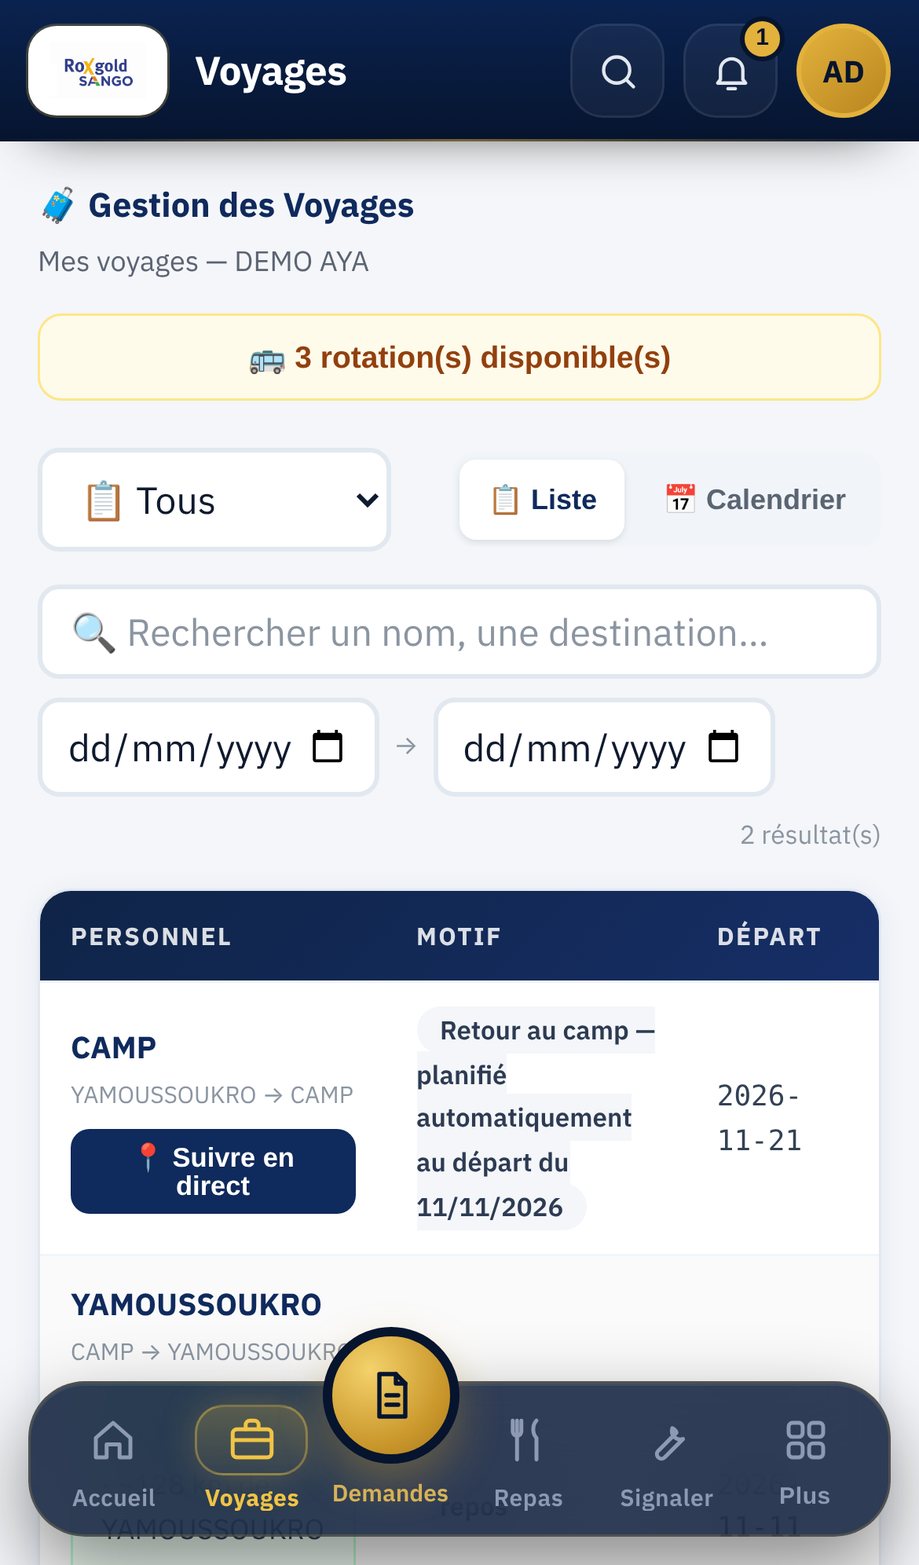
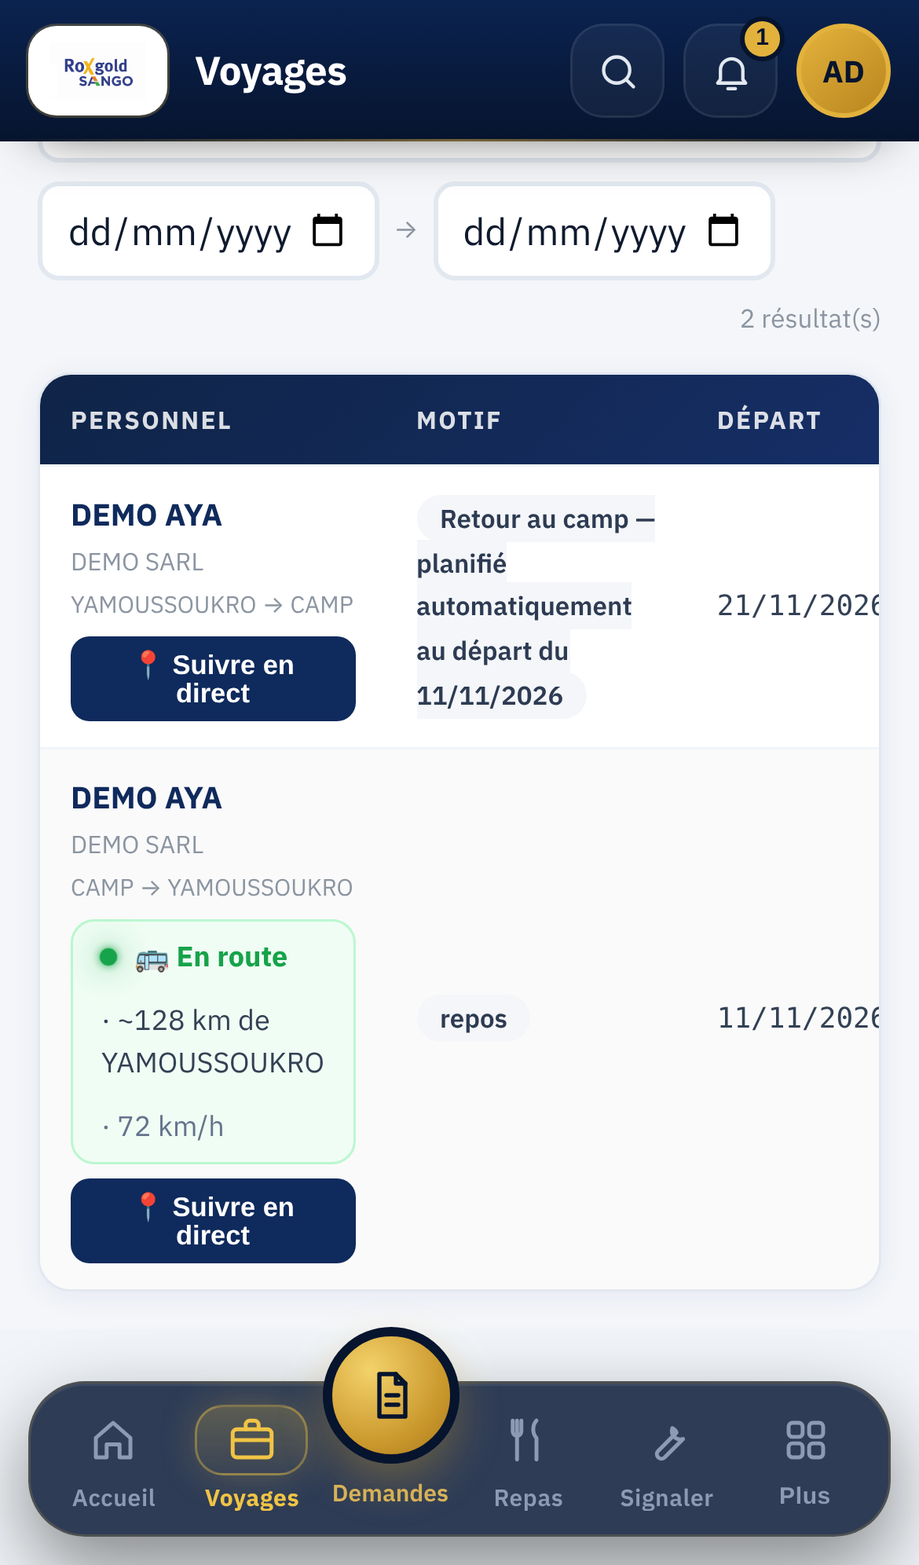
Page Voyages : nom du passager et dates lisibles ; captures T04 finales
- Voyages.jsx lisait `personnel_detail`, que l'API voyages ne renvoie pas
  (elle renvoie `personnel_nom` / `personnel_societe`) : la colonne
  « Personnel » affichait la destination au lieu du nom, pour tous les
  profils, et la recherche par nom, le filtre société, le calendrier et
  les confirmations étaient vides. Passage par `nomPersonnel(v)`.
- Colonnes Départ et Retour prévu : `21/11/2026` au lieu de `2026-11-21`.
- Piège ajouté dans CLAUDE.md.
- Tutoriel T04 : captures réelles finales (positions fraîches), la page
  Voyages met en avant le trajet en cours ; espaces insécables du français
  dans le générateur (plus de « ? » seul en début de ligne).

Claude-Session: https://claude.ai/code/session_01JXsitDuHqmbLLRJQTobeDs

diff --git a/frontend/src/pages/Voyages.jsx b/frontend/src/pages/Voyages.jsx
@@ -21,6 +21,10 @@ const STATUT_STYLES = {
 }
 const STATUT_LABELS = { planifie:'Planifié', en_voyage:'En voyage', retour:'Retour camp', annule:'Annulé' }
 const fmtFR = (iso) => iso ? new Date(iso+'T00:00:00').toLocaleDateString('fr-FR',{day:'numeric',month:'short'}) : '—'
+// Date complète « 21/11/2026 » pour le tableau (l'API renvoie AAAA-MM-JJ).
+const fmtJour = (iso) => iso ? new Date(iso+'T00:00:00').toLocaleDateString('fr-FR',{day:'2-digit',month:'2-digit',year:'numeric'}) : '—'
+// L'API voyages renvoie personnel_nom / personnel_societe (pas d'objet personnel_detail).
+const nomPersonnel = (v) => v?.personnel_nom || ''
 
 function exportVoyagesCSV(liste) {
   const headers = ['ID','Personnel','Société','Destination','Motif','Départ prévu','Départ réel','Retour prévu','Retour réel','Statut']
@@ -94,15 +98,15 @@ function VueCalendrier({ voyages: data, mois, setMois, onSelectVoyage }) {
             <div key={i} style={{minHeight:64,border:`1px solid ${isToday?'#C9972B':'#f1f5f9'}`,borderRadius:8,padding:4,fontSize:10,background:isToday?'#fffbeb':'#fff'}}>
               <div style={{fontWeight:700,color:isToday?'#C9972B':'var(--rzc-text-3)',marginBottom:2}}>{j}</div>
               {info?.departs.slice(0,2).map(v=>(
-                <div key={'d'+v.id} onClick={()=>onSelectVoyage(v)} title={`Départ — ${v.personnel_detail?.nom||''}`}
+                <div key={'d'+v.id} onClick={()=>onSelectVoyage(v)} title={`Départ — ${nomPersonnel(v)}`}
                   style={{background:'#fff7ed',color:'#c2410c',borderRadius:4,padding:'1px 4px',marginBottom:2,cursor:'pointer',whiteSpace:'nowrap',overflow:'hidden',textOverflow:'ellipsis'}}>
-                  🧳 {v.personnel_detail?.nom||v.destination}
+                  🧳 {nomPersonnel(v)||v.destination}
                 </div>
               ))}
               {info?.retours.slice(0,2).map(v=>(
-                <div key={'r'+v.id} onClick={()=>onSelectVoyage(v)} title={`Retour — ${v.personnel_detail?.nom||''}`}
+                <div key={'r'+v.id} onClick={()=>onSelectVoyage(v)} title={`Retour — ${nomPersonnel(v)}`}
                   style={{background:'#f0fdf4',color:'#15803d',borderRadius:4,padding:'1px 4px',marginBottom:2,cursor:'pointer',whiteSpace:'nowrap',overflow:'hidden',textOverflow:'ellipsis'}}>
-                  🏠 {v.personnel_detail?.nom||v.destination}
+                  🏠 {nomPersonnel(v)||v.destination}
                 </div>
               ))}
             </div>
@@ -248,12 +252,12 @@ export default function Voyages() {
     catch(e) { toast.error(e.response?.data?.error||'Erreur') }
   }
   const annulerVoyage = async (v) => {
-    if (!await confirmDialog(`Annuler le voyage de ${v.personnel_detail?.nom||''} ?`)) return
+    if (!await confirmDialog(`Annuler le voyage de ${nomPersonnel(v)} ?`)) return
     try { await voyages.annuler(v.id); loadVoyages() }
     catch(e) { toast.error(e.response?.data?.error||'Erreur') }
   }
   const supprimerVoyage = async (v) => {
-    if (!await confirmDialog(`🗑 Supprimer définitivement le voyage de ${v.personnel_detail?.nom||'?'} vers ${v.destination||'?'} ?\n\nCette action est irréversible.`)) return
+    if (!await confirmDialog(`🗑 Supprimer définitivement le voyage de ${nomPersonnel(v)||'?'} vers ${v.destination||'?'} ?\n\nCette action est irréversible.`)) return
     try { await voyages.supprimer(v.id); loadVoyages() }
     catch(e) { toast.error(e.response?.data?.error || 'Impossible de supprimer ce voyage') }
   }
@@ -362,19 +366,19 @@ export default function Voyages() {
 
   const filtered = data.filter(v => {
     if (filterStatut && v.statut !== filterStatut) return false
-    if (filterSociete && v.personnel_detail?.societe !== filterSociete) return false
+    if (filterSociete && v.personnel_societe !== filterSociete) return false
     if (dateDebut && v.date_depart < dateDebut) return false
     if (dateFin && v.date_depart > dateFin) return false
     if (search) {
       const s = search.toLowerCase()
-      const nom = `${v.personnel_detail?.nom||''} ${v.personnel_detail?.prenom||''}`.toLowerCase()
+      const nom = nomPersonnel(v).toLowerCase()
       const dest = (v.destination||'').toLowerCase()
       const orig = (v.origine||'').toLowerCase()
       if (!nom.includes(s) && !dest.includes(s) && !orig.includes(s)) return false
     }
     return true
   })
-  const societesDisponibles = [...new Set(data.map(v=>v.personnel_detail?.societe).filter(Boolean))].sort()
+  const societesDisponibles = [...new Set(data.map(v=>v.personnel_societe).filter(Boolean))].sort()
   const filtresActifs = !!(filterSociete || dateDebut || dateFin || search)
 
   // Styles
@@ -601,7 +605,7 @@ export default function Voyages() {
               <tbody>
                 {filtered.map((v, i) => {
                   const sc = STATUT_STYLES[v.statut] || STATUT_STYLES.planifie
-                  const p  = v.personnel_detail
+                  const nom = nomPersonnel(v)
                   const autresDuConvoi = v.rotation_id ? filtered.filter(x => x.rotation_id === v.rotation_id && x.id !== v.id) : []
                   const trajetDiffere = autresDuConvoi.some(x => x.destination && v.destination && x.destination !== v.destination)
                   return (
@@ -610,7 +614,7 @@ export default function Voyages() {
                       onMouseLeave={e => e.currentTarget.style.background = i%2?'#fafafa':'var(--rzc-white)'}>
                       <td style={{ padding:'11px 13px' }}>
                         <div style={{ fontWeight:700, color:'var(--rzc-navy)', fontSize:13, display:'flex', alignItems:'center', gap:6 }}>
-                          {p ? `${p.nom} ${p.prenom}` : v.destination || '—'}
+                          {nom || v.destination || '—'}
                           {trajetDiffere && (
                             <span title="Ce trajet diffère des autres passagers du même convoi"
                               style={{fontSize:9,fontWeight:700,color:'#7c3aed',background:'rgba(124,58,237,.12)',
@@ -619,7 +623,7 @@ export default function Voyages() {
                             </span>
                           )}
                         </div>
-                        {p?.societe && <div style={{ fontSize:10.5, color:'var(--rzc-text-4)', marginTop:1 }}>{p.societe}</div>}
+                        {v.personnel_societe && <div style={{ fontSize:10.5, color:'var(--rzc-text-4)', marginTop:1 }}>{v.personnel_societe}</div>}
                         <div style={{ fontSize:10, color:'var(--rzc-text-4)', marginTop:2 }}>
                           {(v.origine||'Camp')} → {v.destination||'—'}
                         </div>
@@ -635,9 +639,9 @@ export default function Voyages() {
                           {v.motif || 'repos'}
                         </span>
                       </td>
-                      <td style={{ padding:'11px 13px', fontFamily:'monospace', fontSize:12, color:'#334155' }}>{v.date_depart}</td>
+                      <td style={{ padding:'11px 13px', fontFamily:'monospace', fontSize:12, color:'#334155', whiteSpace:'nowrap' }}>{fmtJour(v.date_depart)}</td>
                       <td style={{ padding:'11px 13px', fontFamily:'monospace', fontSize:12, color:'#7c3aed' }}>{v.heure_depart || '—'}</td>
-                      <td style={{ padding:'11px 13px', fontFamily:'monospace', fontSize:12 }}>{v.date_retour_prevue}</td>
+                      <td style={{ padding:'11px 13px', fontFamily:'monospace', fontSize:12, whiteSpace:'nowrap' }}>{fmtJour(v.date_retour_prevue)}</td>
                       <td style={{ padding:'11px 13px' }}>
                         <span style={{ background:sc.bg, color:sc.color, padding:'4px 12px', borderRadius:20, fontSize:11, fontWeight:700, whiteSpace:'nowrap' }}>
                           {sc.label}
@@ -1012,7 +1016,7 @@ export default function Voyages() {
             </div>
             <div style={{ padding:20,display:'flex',flexDirection:'column',gap:12 }}>
               <p style={{fontSize:13,color:'var(--rzc-text-2)',margin:0}}>
-                Voyage de <b>{refusModal.personnel_detail?.nom} {refusModal.personnel_detail?.prenom}</b> vers {refusModal.destination}.
+                Voyage de <b>{nomPersonnel(refusModal)}</b> vers {refusModal.destination}.
               </p>
               <textarea value={motifRefus} onChange={e=>setMotifRefus(e.target.value)}
                 placeholder="Motif du refus (optionnel)…" rows={3} style={{...inp,resize:'vertical'}}/>

diff --git a/docs/ROXGOLD_SITELIFE_TUTORIALS/06_PROJETS_HYPERFRAMES/T04_suivre_bus/capture_t04.js b/docs/ROXGOLD_SITELIFE_TUTORIALS/06_PROJETS_HYPERFRAMES/T04_suivre_bus/capture_t04.js
@@ -26,6 +26,13 @@ const OUT = path.join(__dirname, 'captures') + '/';
   const bus = pg.getByText('Le bus est entre').first();
   if (await bus.count()) { await bus.scrollIntoViewIfNeeded(); await shot('04_suivi_bus_entre.png', 800); }
   await pg.locator('button[aria-label="Fermer"]').first().click();
-  await pg.goto('http://127.0.0.1:5173/voyages'); await pg.waitForLoadState('networkidle'); await shot('05_voyages.png', 2500);
+  await pg.goto('http://127.0.0.1:5173/voyages'); await pg.waitForLoadState('networkidle'); await pg.waitForTimeout(2500);
+  // La liste est triée du plus récent au plus ancien : le retour planifié (convoi à venir) passe en premier.
+  // On amène à l'écran la ligne du trajet EN COURS (Camp → Yamoussoukro), celle que l'on suit.
+  const ligne = pg.locator('tr', { hasText: /CAMP\s*→\s*YAMOUSSOUKRO/ }).first();
+  await ligne.evaluate(el => el.scrollIntoView({ block: 'center' }));
+  const bt = await ligne.getByText('Suivre en direct').boundingBox();
+  console.log('bouton 05 (px x3)', Math.round(bt.x*3), Math.round(bt.y*3), Math.round(bt.width*3), Math.round(bt.height*3));
+  await shot('05_voyages.png', 1200);
   await b.close();
 })();

diff --git a/docs/ROXGOLD_SITELIFE_TUTORIALS/06_PROJETS_HYPERFRAMES/_commun/generateur_tutoriel.py b/docs/ROXGOLD_SITELIFE_TUTORIALS/06_PROJETS_HYPERFRAMES/_commun/generateur_tutoriel.py
@@ -106,7 +106,69 @@ html,body{width:1920px;height:1080px;overflow:hidden;background:var(--nuit);colo
 """.replace("%(SW)s", str(SCR_W)).replace("%(SH)s", str(SCR_H)).replace("%(IW)s", str(W_IMG)).replace("%(IH)s", str(H_IMG))
 
 
-def construire(cfg, images, fonts, gsap_tag):
+def duree_audio(path):
+    import subprocess
+    r = subprocess.run(["ffprobe", "-v", "error", "-show_entries", "format=duration", "-of", "csv=p=0", path],
+                       capture_output=True, text=True, check=True)
+    return float(r.stdout.strip())
+
+
+DEBUT_VOIX = 0.3     # la voix démarre 0,3 s après l'image qu'elle décrit
+MARGE_FIN = 0.7      # respiration après la dernière phrase du plan
+
+
+def adapter_a_la_voix(cfg, voix_dir):
+    """Si les voix FLORA existent (voix_dir/<CODE>_<PLAN>.mp3), allonge chaque plan pour contenir sa voix,
+    remet les temps internes du plan (encadrés, appuis, étiquettes) à l'échelle, et recale les sous-titres du
+    plan sur la durée réelle de la voix, au prorata du nombre de caractères. Renvoie (cfg, audios)."""
+    import copy, re
+    fichiers = {pid: os.path.join(voix_dir, f'{cfg["code"]}_{pid.upper()}.mp3') for pid, _ in cfg["plans"]}
+    if not os.path.isdir(voix_dir) or not all(os.path.exists(f) for f in fichiers.values()):
+        return cfg, []
+    cfg = copy.deepcopy(cfg)
+    anciens, t = {}, 0
+    for pid, d in cfg["plans"]:
+        anciens[pid] = (t, d); t += d
+    voix = {pid: duree_audio(f) for pid, f in fichiers.items()}
+    nouveaux = [(pid, round(max(d, DEBUT_VOIX + voix[pid] + MARGE_FIN), 2)) for pid, d in cfg["plans"]]
+    facteur = {pid: nd / anciens[pid][1] for pid, nd in nouveaux}
+    cfg["plans"] = nouveaux
+    k = lambda pid, t: round(t * facteur[pid], 2)
+    for pid, v in cfg["telephone"].items():
+        img, etape, kick, tit, sous, zones = v
+        cfg["telephone"][pid] = (img, etape, kick, tit, sous, [(x, y, w, h, k(pid, tt), z) for (x, y, w, h, tt, z) in zones])
+    for pid, l in cfg.get("recentrages", {}).items():
+        cfg["recentrages"][pid] = [(x, y, w, h, k(pid, tt), z) for (x, y, w, h, tt, z) in l]
+    for pid, (x, y, tt) in cfg.get("taps", {}).items():
+        cfg["taps"][pid] = (x, y, k(pid, tt))
+    pc = cfg["constat"]["plan"]
+    cfg["constat"]["maux"] = [(txt, k(pc, tt)) for txt, tt in cfg["constat"]["maux"]]
+    # sous-titres : chaque sous-titre appartient au plan où il commençait ; répartition au prorata des caractères
+    debuts, t = {}, 0
+    for pid, d in nouveaux:
+        debuts[pid] = t; t += d
+    groupes = {pid: [] for pid, _ in nouveaux}
+    for (a0, b0, txt) in cfg["sous_titres"]:
+        pid = next(p for p, (s0, d0) in anciens.items() if s0 <= a0 < s0 + d0)
+        groupes[pid].append(txt)
+    st = []
+    for pid, _ in nouveaux:
+        txts = groupes[pid]
+        if not txts:
+            continue
+        n = [len(re.sub("<[^>]+>", "", x)) for x in txts]
+        tot, cumul = sum(n), 0
+        for txt, c in zip(txts, n):
+            a0 = debuts[pid] + DEBUT_VOIX + voix[pid] * cumul / tot
+            cumul += c
+            b0 = debuts[pid] + DEBUT_VOIX + voix[pid] * cumul / tot
+            st.append((round(a0, 2), round(b0 - 0.05, 2), txt))
+    cfg["sous_titres"] = st
+    audios = [(pid, fichiers[pid], round(debuts[pid] + DEBUT_VOIX, 2), round(voix[pid], 2)) for pid, _ in nouveaux]
+    return cfg, audios
+
+
+def construire(cfg, images, fonts, gsap_tag, audios=()):
     plans, total = [], 0
     for pid, d in cfg["plans"]:
         plans.append((pid, total, d)); total += d
@@ -243,6 +305,7 @@ def construire(cfg, images, fonts, gsap_tag):
 <div class="fond clip" id="fond" data-start="0" data-duration="{total}" data-track-index="2"><svg class="courbes" id="courbes" viewBox="0 0 2040 1080" preserveAspectRatio="none"><path d="M-50 820 C 400 700, 800 900, 1300 760 S 1900 640, 2080 700"/><path d="M-50 900 C 420 800, 820 1000, 1320 860 S 1900 760, 2080 800"/><path d="M-50 240 C 380 160, 760 330, 1260 210 S 1900 120, 2080 170"/></svg></div>
 {"".join(scenes)}
 {subs}
+{"".join(f'<audio class="clip" id="voix-{pid}" src="{src}" data-start="{st0}" data-duration="{du}" data-track-index="3" data-volume="1"></audio>' for pid, src, st0, du in audios)}
 </div>
 <script>
 window.__timelines = window.__timelines || {{}};
@@ -256,9 +319,26 @@ window.__timelines["main"] = tl;
 ''', total
 
 
+def typo(v):
+    """Espaces insécables du français (avant ? ! : ; et dans « »), pour éviter
+    qu'un signe se retrouve seul en début de ligne à l'écran."""
+    if isinstance(v, str):
+        for a, b in ((" ?", "\u00a0?"), (" !", "\u00a0!"), (" :", "\u00a0:"), (" ;", "\u00a0;"), ("« ", "«\u00a0"), (" »", "\u00a0»")):
+            v = v.replace(a, b)
+        return v
+    if isinstance(v, dict):
+        return {k: typo(x) for k, x in v.items()}
+    if isinstance(v, (list, tuple)):
+        return type(v)(typo(x) for x in v)
+    return v
+
+
 def generer(cfg):
     gsap, fonts_dir = sys.argv[1], sys.argv[2]
+    cfg = {k: (v if k == "dossier" else typo(v)) for k, v in cfg.items()}
     ici = cfg["dossier"]; cap = os.path.join(ici, "captures"); out = os.path.join(ici, "hyperframes")
+    voix_dir = os.path.join(out, "assets", "voix")
+    cfg, audios = adapter_a_la_voix(cfg, voix_dir)
     os.makedirs(os.path.join(out, "assets"), exist_ok=True)
     fonts = {w: b64(os.path.join(fonts_dir, f"ibm-plex-sans-latin-{w}-normal.woff2"), "font/woff2") for w in (400, 600, 700)}
     utilisees = sorted({v[0] for v in cfg["telephone"].values()})
@@ -267,12 +347,14 @@ def generer(cfg):
     for n in utilisees:
         shutil.copy(os.path.join(cap, n), os.path.join(out, "assets", n)); imgs[n] = f"assets/{n}"
     shutil.copy(gsap, os.path.join(out, "assets", "gsap.min.js"))
-    html, total = construire(cfg, imgs, fonts, '<script src="assets/gsap.min.js"></script>')
+    loc = [(pid, f"assets/voix/{os.path.basename(f)}", st0, du) for pid, f, st0, du in audios]
+    html, total = construire(cfg, imgs, fonts, '<script src="assets/gsap.min.js"></script>', loc)
     open(os.path.join(out, "index.html"), "w").write(html)
     imgs = {"logo": b64(LOGO, "image/png"), **{n: jpeg_b64(os.path.join(cap, n)) for n in utilisees}}
     os.makedirs(os.path.join(ici, "send_to_hyperframes"), exist_ok=True)
+    inl = [(pid, b64(f, "audio/mpeg"), st0, du) for pid, f, st0, du in audios]
     html, _ = construire(cfg, imgs, fonts, '<script src="https://cdn.jsdelivr.net/npm/gsap@3.14.2/dist/gsap.min.js"></script>\n'
-                         '<script src="https://cdn.jsdelivr.net/npm/@hyperframes/core/dist/hyperframe.runtime.iife.js"></script>')
+                         '<script src="https://cdn.jsdelivr.net/npm/@hyperframes/core/dist/hyperframe.runtime.iife.js"></script>', inl)
     open(os.path.join(ici, "send_to_hyperframes", f'{cfg["code"]}_send_to_hyperframes.html'), "w").write(html)
     json.dump({"id": f'roxgold-sitelife-{cfg["code"].lower()}', "name": f'{cfg["code"]} {cfg["titre"]}'},
               open(os.path.join(out, "meta.json"), "w"), ensure_ascii=False, indent=2)
@@ -281,4 +363,4 @@ def generer(cfg):
     open(os.path.join(out, ".gitignore"), "w").write(".hyperframes/\nrenders/\n")
     srt_path = os.path.join(TUTOS, "08_SOUS_TITRES", f'{cfg["code"]}_{os.path.basename(ici).split("_", 1)[1]}.srt')
     open(srt_path, "w").write(srt(cfg["sous_titres"]))
-    print(f'ok {cfg["code"]} : {total} s, {len(cfg["plans"])} plans, {len(cfg["sous_titres"])} sous-titres -> {os.path.relpath(srt_path, TUTOS)}')
+    print(f'ok {cfg["code"]} : {total} s, {len(cfg["plans"])} plans, {len(cfg["sous_titres"])} sous-titres, {len(audios)} voix -> {os.path.relpath(srt_path, TUTOS)}')

diff --git a/docs/ROXGOLD_SITELIFE_TUTORIALS/06_PROJETS_HYPERFRAMES/T04_suivre_bus/generer_composition.py b/docs/ROXGOLD_SITELIFE_TUTORIALS/06_PROJETS_HYPERFRAMES/T04_suivre_bus/generer_composition.py
@@ -24,7 +24,7 @@ CFG = {
         "p06": ("02_suivi_carte.png", 2, "L'arrivée", "Heure d'arrivée estimée", "Temps et kilomètres restants.", [(30,1105,1110,330,0.5,None)]),
         "p07": ("03_suivi_parcours.png", 3, "Le parcours", "Arrêts passés et à venir", "Votre montée · votre descente.", [(30,1460,1110,520,0.5,None)]),
         "p08": ("04_suivi_bus_entre.png", 3, "Le parcours", "Où est le bus ?", "Actualisé toutes les 15 secondes.", [(90,1480,1000,110,0.5,None)]),
-        "p09": ("05_voyages.png", 4, "Autre accès", "Page Voyages", "« Suivre en direct » sur votre voyage.", [(80,1435,380,120,0.5,None)]),
+        "p09": ("05_voyages.png", 4, "Autre accès", "Page Voyages", "« Suivre en direct » sur le trajet en cours.", [(80,1160,385,460,0.5,None)]),
     },
     "taps": {"p04": (585, 1378, 6.4)},
     "resultat": {"plan": "p10", "titre": "Fini l'attente<br>à l'aveugle.",

diff --git a/CLAUDE.md b/CLAUDE.md
@@ -74,6 +74,7 @@ npm run dev
 - **Validation d'une demande de voyage qui quitte le camp (`DemandeViewSet.valider`) : ne jamais faire partir la personne avant le jour J.** Un départ futur reste « planifie » et la chambre reste occupée ; c'est `voyages/automatisation.py` (boucle chaque minute dans `asgi.py`) qui appelle `partir()` à la date du voyage. Avant le 11/11/2026, `partir()` était appelé dès la validation : accueil « Trajet en cours · En route » et chambre « Libre » (réattribuable) plusieurs jours trop tôt. Tests : `TrajetsAllerSimpleTests.test_validation_d_un_depart_*`.
 - **Départ résidence sans décision : une seule règle, `residences/departs.py`**, utilisée par la tâche quotidienne `verifier_departs_residence` (notifications « Départ résidence dépassé — décision requise ») ET par le tableau de bord admin (`/api/batiments/stats/`, alerte 🏠 → fenêtre « Il part / Il reste »). Les deux copies avaient divergé (une demande de voyage « validée » masquait encore le résident du tableau de bord) : l'admin recevait l'alerte sans rien trouver à traiter. Ne pas recopier la règle ailleurs. La notification ouvre `/?departs=1` (fenêtre de décision du tableau de bord).
 - **iPhone (Safari / PWA) : jamais `-webkit-overflow-scrolling: touch` sur `.main-scroll` ni sur un conteneur de page** : WebKit en fait une couche à part et toute fenêtre `position:fixed` ouverte dedans passe SOUS l'en-tête de l'appli (bouton 🖨 du dossier Historique → Maintenance caché). Chrome ignore la propriété, donc les tests Playwright (Chromium) ne le voient pas — simuler avec `.main-scroll{isolation:isolate}`. `index.css` neutralise la propriété dans `.main-scroll` et fait passer la zone de contenu au-dessus de l'en-tête quand une fenêtre est ouverte.
+- **API voyages (`VoyageSerializer`) : le nom du passager est `personnel_nom` (et `personnel_societe`), pas d'objet `personnel_detail`** (celui-là existe sur les demandes et les chambres, `residences/serializers.py`). `Voyages.jsx` lisait `personnel_detail` : colonne « Personnel » sans nom, recherche par nom et filtre société inopérants jusqu'au 11/11/2026. Passer par `nomPersonnel(v)`.
 - **Haut d'écran dans l'app installée** : utiliser `var(--zone-haut)` (défini dans `index.css`, = barre d'état) pour tout élément fixé en haut (`top`, `padding-top`), pas `env(safe-area-inset-top)` seul (vaut 0 sur les anciennes WebView Android, où Capacitor injecte `--safe-area-inset-top`).
 
 ## Conventions de code observées (à respecter pour la cohérence)

diff --git a/docs/ROXGOLD_SITELIFE_TUTORIALS/06_PROJETS_HYPERFRAMES/T04_suivre_bus/LISTE_CAPTURES.md b/docs/ROXGOLD_SITELIFE_TUTORIALS/06_PROJETS_HYPERFRAMES/T04_suivre_bus/LISTE_CAPTURES.md
@@ -1,6 +1,6 @@
 # T04 : captures d'écran
 
-Captures **réelles** prises le 11/11/2026 sur l'instance locale de démonstration (jamais la production), iPhone 13 émulé, navigateur en français, **heure réelle**. Le convoi a été mis en route par la vraie API (`seed_demo_t04.py`), avec un tracé GPS fictif. Le fond de carte est celui de l'application (tuiles Esri World Street Map).
+Captures **réelles** prises le 11/11/2026 vers 05 h 15 UTC sur l'instance locale de démonstration (jamais la production), iPhone 13 émulé, navigateur en français, **heure réelle**. Le convoi a été mis en route par la vraie API (`seed_demo_t04.py`), avec un tracé GPS fictif. Le fond de carte est celui de l'application (tuiles Esri World Street Map).
 
 | Fichier | Plan | Contenu |
 |---|---|---|
@@ -8,7 +8,7 @@ Captures **réelles** prises le 11/11/2026 sur l'instance locale de démonstrati
 | `02_suivi_carte.png` | P03, P05, P06 | Panneau « Mon trajet en direct » : carte, arrivée estimée, km restants |
 | `03_suivi_parcours.png` | P07 | Parcours : arrêts passés, votre montée |
 | `04_suivi_bus_entre.png` | P08 | « Le bus est entre… » et votre descente |
-| `05_voyages.png` | P09 | Page Voyages, bouton « Suivre en direct » |
+| `05_voyages.png` | P09 | Page Voyages, ligne du trajet **en cours** (Camp → Yamoussoukro) : « En route » et bouton « Suivre en direct ». La ligne du retour planifié (21/11) a aussi ce bouton (son propre convoi, à venir) : elle n'est pas celle mise en avant. |
 
 ## Reproduire (à lancer juste avant la capture, pour des positions fraîches)
 

diff --git a/docs/ROXGOLD_SITELIFE_TUTORIALS/03_SCRIPTS_VOIX_OFF/T04_suivre_bus/10_CHECKLIST_VALIDATION.md b/docs/ROXGOLD_SITELIFE_TUTORIALS/03_SCRIPTS_VOIX_OFF/T04_suivre_bus/10_CHECKLIST_VALIDATION.md
@@ -11,4 +11,9 @@
 - [ ] Le fond de carte montre l'itinéraire réel Camp → Abidjan et la position approximative du camp : à faire valider par la sécurité du site.
 
 ## Image, son, sous-titres
-- [ ] Logo HD · voix FLORA (11 fichiers) · SRT recalé · illustration P02 · export `T04_suivre_bus_v1.mp4`.
+- [x] Voix FLORA (11 fichiers, voix Charon) · SRT recalé sur la voix · export `T04_suivre_bus_v1.mp4`.
+- [ ] Logo HD officiel · illustration P02 (optionnelle).
+
+## Défauts de l'application relevés et corrigés (11/11/2026, avec accord)
+- [x] Page Voyages : colonnes Départ et Retour prévu au format brut `2026-11-21` → `21/11/2026`.
+- [x] Page Voyages : colonne « Personnel » vide de nom (affichait la destination) pour tous les profils, recherche par nom et filtre société inopérants : la page lisait `personnel_detail`, que l'API voyages ne renvoie pas (elle renvoie `personnel_nom` / `personnel_societe`).
